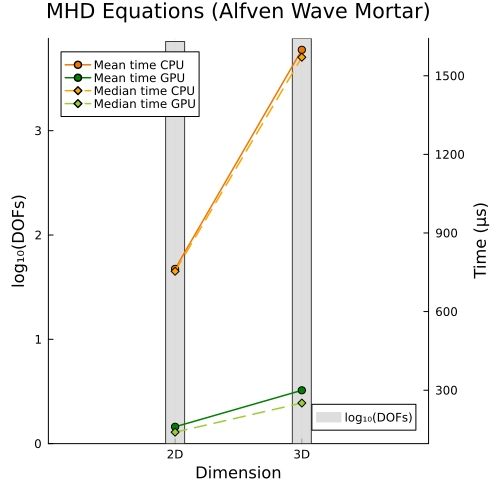
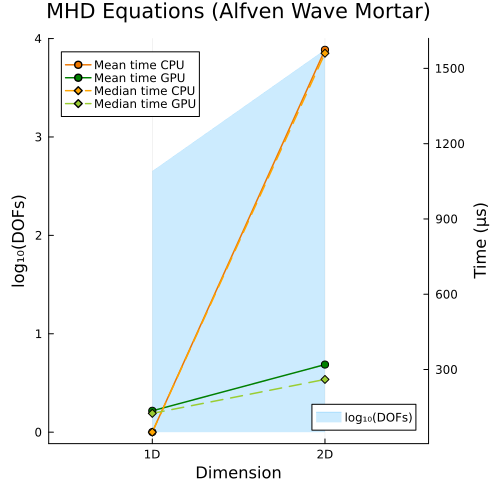
Add benchmark with more on DOFs

diff --git a/benchmark.md b/benchmark.md
@@ -2,16 +2,27 @@
 
 > This documentation serves as a supplementary material for JuliaCon 2025. \
 
-See the benchmarking file at [benchmark.ipynb](https://github.com/trixi-gpu/TrixiCUDA.jl/blob/v0.1.0-rc.2/benchmark/benchmark.ipynb), and all results are compared between [TrixiCUDA.jl v0.1.0-rc.2](https://github.com/trixi-gpu/TrixiCUDA.jl/tree/v0.1.0-rc.2) and [Trixi.jl v0.11.17](https://github.com/trixi-framework/Trixi.jl/tree/v0.11.17).
+See the benchmarking file at [benchmark.ipynb]() (TODO: add link), and all results are compared between [TrixiCUDA.jl v0.1.0-rc.3]() (TODO: add link) and [Trixi.jl v0.11.17](https://github.com/trixi-framework/Trixi.jl/tree/v0.11.17). All the benchmark examples can be found in the [benchmark]() directory (TODO: add link).
 
 We mainly show the mean and median times on CPU and GPU for each example, and include the degrees of freedom (DOFs) per field (i.e., per independent solution variable) in each plot, since DOFs are a dominant factor (though not the only factor) affecting computational time.
 
 We provide the link to each example in Trixi.jl as it is a more mature and stable package compared to TrixiCUDA.jl. Note that performance varies with different inputs; these benchmark results are provided for reference only.
 
-## Linear Advection Equation
+## Approaches
+
+We adopt two approaches here: 
+- First, we maintain a consistent solution resolution per space dimension by fixing both the degree of polynomial basis (i.e., `polydeg`) and mesh refinement level (i.e., `initial_refinement_level`), while varying the problem dimension from 1D to 2D to 3D. In this way, we observe a linear increase in log DOFs with problem dimension.
+- Second, for each problem type, we maintain a constant number of DOFs across 1D, 2D, and 3D by changing the polynomial degree (i.e., `polydeg`) and mesh refinement level (i.e., `initial_refinement_level`). This way produces an roughly flat log DOFs curve across all dimensions.
+
+We will present benchmark results for two approaches.
+
+## Results
+
+### Linear Advection Equation
 Left: Basic linear advection equation ([1D](https://github.com/trixi-framework/Trixi.jl/blob/v0.11.17/examples/tree_1d_dgsem/elixir_advection_basic.jl), [2D](https://github.com/trixi-framework/Trixi.jl/blob/v0.11.17/examples/tree_2d_dgsem/elixir_advection_basic.jl), [3D](https://github.com/trixi-framework/Trixi.jl/blob/v0.11.17/examples/tree_3d_dgsem/elixir_advection_basic.jl))  \
 Right: Linear advection equation with mortar method ([2D](https://github.com/trixi-framework/Trixi.jl/blob/v0.11.17/examples/tree_2d_dgsem/elixir_advection_mortar.jl), [3D](https://github.com/trixi-framework/Trixi.jl/blob/v0.11.17/examples/tree_3d_dgsem/elixir_advection_mortar.jl))
 
+- First approach
 ~~~
 <table style="background: transparent; border: none;">
   <tr>
@@ -25,10 +36,25 @@ Right: Linear advection equation with mortar method ([2D](https://github.com/tri
 </table>
 ~~~
 
-## Compressible Euler Equations
+- Second approach
+~~~
+<table style="background: transparent; border: none;">
+  <tr>
+    <td style="background: transparent; border: none;">
+      <img src="/assets/benchmark/bench1_.png" style="width: 300px;">
+    </td>
+    <td style="background: transparent; border: none;">
+      <img src="/assets/benchmark/bench2_.png" style="width: 300px;">
+    </td>
+  </tr>
+</table>
+~~~
+
+### Compressible Euler Equations
 Left: Compressible Euler equations with entropy-conservative flux ([1D](https://github.com/trixi-framework/Trixi.jl/blob/v0.11.17/examples/tree_1d_dgsem/elixir_euler_ec.jl), [2D](https://github.com/trixi-framework/Trixi.jl/blob/v0.11.17/examples/tree_2d_dgsem/elixir_euler_ec.jl), [3D](https://github.com/trixi-framework/Trixi.jl/blob/v0.11.17/examples/tree_3d_dgsem/elixir_euler_ec.jl))  
 Right: Compressible Euler equations with shock capturing ([1D](https://github.com/trixi-framework/Trixi.jl/blob/v0.11.17/examples/tree_1d_dgsem/elixir_euler_shockcapturing.jl), [2D](https://github.com/trixi-framework/Trixi.jl/blob/v0.11.17/examples/tree_2d_dgsem/elixir_euler_shockcapturing.jl), [3D](https://github.com/trixi-framework/Trixi.jl/blob/v0.11.17/examples/tree_3d_dgsem/elixir_euler_shockcapturing.jl))
 
+- Fisrt approach
 ~~~
 <table style="background: transparent; border: none;">
   <tr>
@@ -42,17 +68,39 @@ Right: Compressible Euler equations with shock capturing ([1D](https://github.co
 </table>
 ~~~
 
-## Hyperbolic Diffusion Equations
+- Second approach 
+~~~
+<table style="background: transparent; border: none;">
+  <tr>
+    <td style="background: transparent; border: none;">
+      <img src="/assets/benchmark/bench3_.png" style="width: 300px;">
+    </td>
+    <td style="background: transparent; border: none;">
+      <img src="/assets/benchmark/bench4_.png" style="width: 300px;">
+    </td>
+  </tr>
+</table>
+~~~
+
+### Hyperbolic Diffusion Equations
 Hyperbolic diffusion equations with non-periodic boundary conditions 
 ([1D](https://github.com/trixi-framework/Trixi.jl/blob/v0.11.17/examples/tree_1d_dgsem/elixir_hypdiff_nonperiodic.jl), [2D](https://github.com/trixi-framework/Trixi.jl/blob/v0.11.17/examples/tree_2d_dgsem/elixir_hypdiff_nonperiodic.jl), [3D](https://github.com/trixi-framework/Trixi.jl/blob/v0.11.17/examples/tree_3d_dgsem/elixir_hypdiff_nonperiodic.jl))
 
+- First approach
 ~~~
 <div align="center">
   <img src="/assets/benchmark/bench8.png" style="width: 300px;">
 </div>
 ~~~
 
-## Ideal GLM-MHD Equations
+- Second approach
+~~~
+<div align="center">
+  <img src="/assets/benchmark/bench8_.png" style="width: 300px;">
+</div>
+~~~
+
+### Ideal GLM-MHD Equations
 Upper: Ideal GLM-MHD equations with entropy-conservative flux  
 ([1D](https://github.com/trixi-framework/Trixi.jl/blob/v0.11.17/examples/tree_1d_dgsem/elixir_mhd_ec.jl), [2D](https://github.com/trixi-framework/Trixi.jl/blob/v0.11.17/examples/tree_2d_dgsem/elixir_mhd_ec.jl), [3D](https://github.com/trixi-framework/Trixi.jl/blob/v0.11.17/examples/tree_3d_dgsem/elixir_mhd_ec.jl)) \
 Lower left: Ideal GLM-MHD Alfven wave
@@ -60,6 +108,7 @@ Lower left: Ideal GLM-MHD Alfven wave
 Lower right: Ideal GLM-MHD Alfven wave with mortar method
 ([2D](https://github.com/trixi-framework/Trixi.jl/blob/v0.11.17/examples/tree_2d_dgsem/elixir_mhd_alfven_wave_mortar.jl), [3D](https://github.com/trixi-framework/Trixi.jl/blob/v0.11.17/examples/tree_3d_dgsem/elixir_mhd_alfven_wave_mortar.jl))
 
+- First approach
 ~~~
 <div align="center">
   <img src="/assets/benchmark/bench5.png" style="width: 300px;">
@@ -78,10 +127,30 @@ Lower right: Ideal GLM-MHD Alfven wave with mortar method
 </table>
 ~~~
 
-## Shallow Water Equations
+- Second approach
+~~~
+<div align="center">
+  <img src="/assets/benchmark/bench5_.png" style="width: 300px;">
+</div>
+~~~
+~~~
+<table style="background: transparent; border: none;">
+  <tr>
+    <td style="background: transparent; border: none;">
+      <img src="/assets/benchmark/bench6_.png" style="width: 300px;">
+    </td>
+    <td style="background: transparent; border: none;">
+      <img src="/assets/benchmark/bench7_.png" style="width: 300px;">
+    </td>
+  </tr>
+</table>
+~~~
+
+### Shallow Water Equations
 Left: Shallow water equations with entropy conservative flux ([1D](https://github.com/trixi-framework/Trixi.jl/blob/v0.11.17/examples/tree_1d_dgsem/elixir_shallowwater_ec.jl), [2D](https://github.com/trixi-framework/Trixi.jl/blob/v0.11.17/examples/tree_2d_dgsem/elixir_shallowwater_ec.jl)) \
 Right: Shallow water equations with source terms ([1D](https://github.com/trixi-framework/Trixi.jl/blob/v0.11.17/examples/tree_1d_dgsem/elixir_shallowwater_source_terms.jl), [2D](https://github.com/trixi-framework/Trixi.jl/blob/v0.11.17/examples/tree_2d_dgsem/elixir_shallowwater_source_terms.jl))
 
+- First approach
 ~~~
 <table style="background: transparent; border: none;">
   <tr>
@@ -95,5 +164,21 @@ Right: Shallow water equations with source terms ([1D](https://github.com/trixi-
 </table>
 ~~~
 
+- Second approach
+~~~
+<table style="background: transparent; border: none;">
+  <tr>
+    <td style="background: transparent; border: none;">
+      <img src="/assets/benchmark/bench9_.png" style="width: 300px;">
+    </td>
+    <td style="background: transparent; border: none;">
+      <img src="/assets/benchmark/bench10_.png" style="width: 300px;">
+    </td>
+  </tr>
+</table>
+~~~
+
 ## Takeaway
-For simple cases (for example, if the CPU performance is less than 100 μs), it is not advantageous to run on the GPU, since the overhead of using the GPU outweighs any performance gain. However, for more complex cases (such as when execution time on the CPU exceeds 1,000 μs), running on the GPU can provide significant benefits. Also, remember that DOFs are the dominant, but not the sole—factor, affecting computation time.
+In the first approach, CPU and GPU runtimes both rise as DOFs increase, simply because more unknowns must be solved; while in the second approach, even when the total DOFs are held constant, CPU and GPU runtimes still increase with problem size, since the cost of solving each unknown also grows with the spatial dimension of the problem. 
+
+However, in both approaches, we observe that the slope of the runtime on the GPU is smaller than that on the CPU, so the GPU is less sensitive to increases in data size and thus robust in handling large-scale problems. So, we can conclude that the speedup increases with the problem size (including both the number of spatial dimensions and the level of solution resolution).
